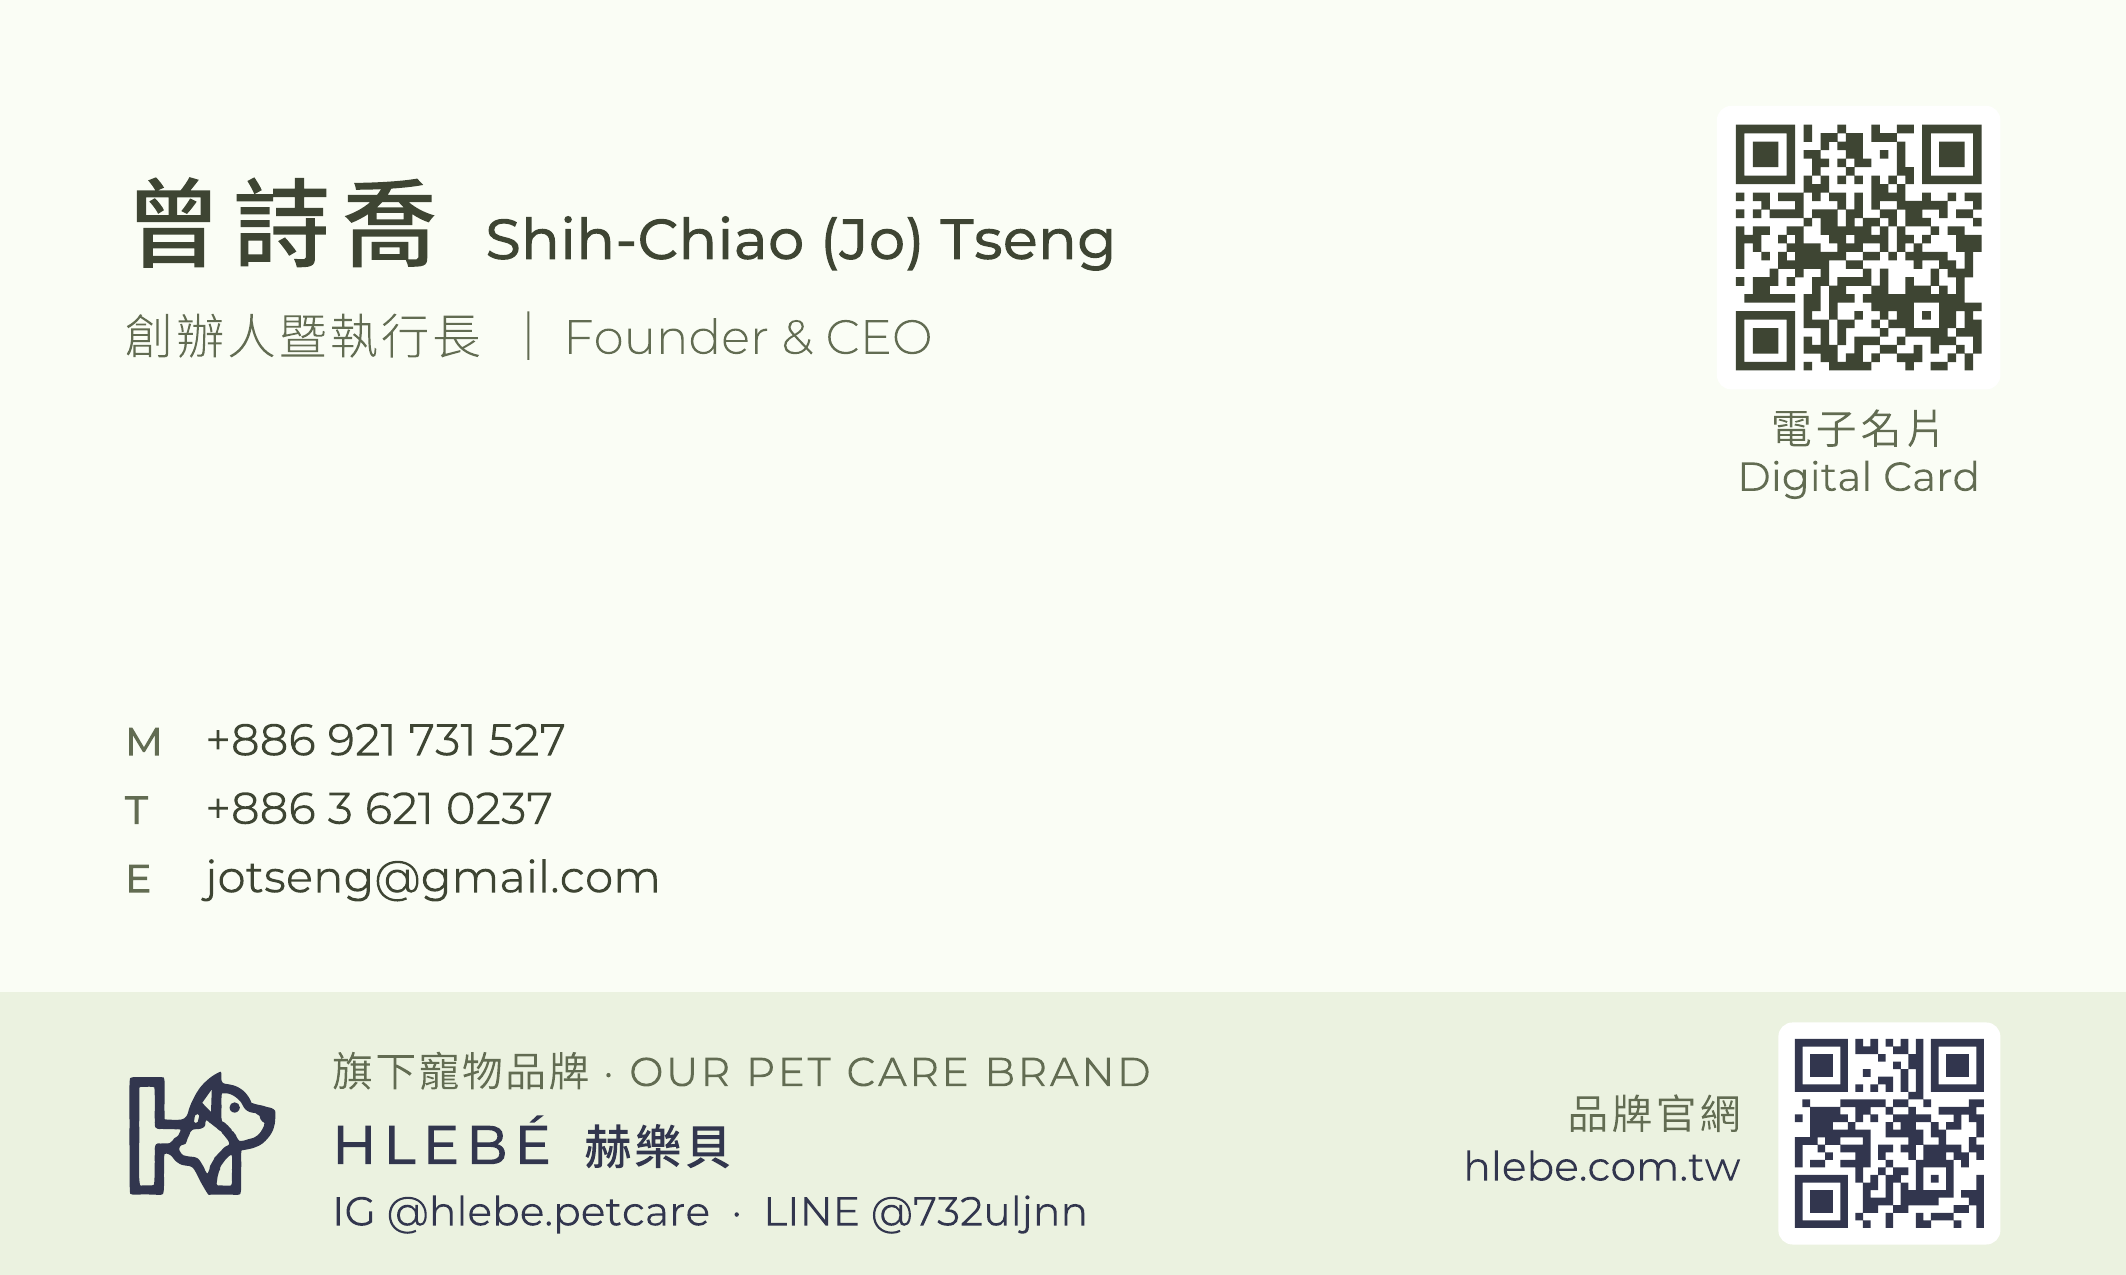
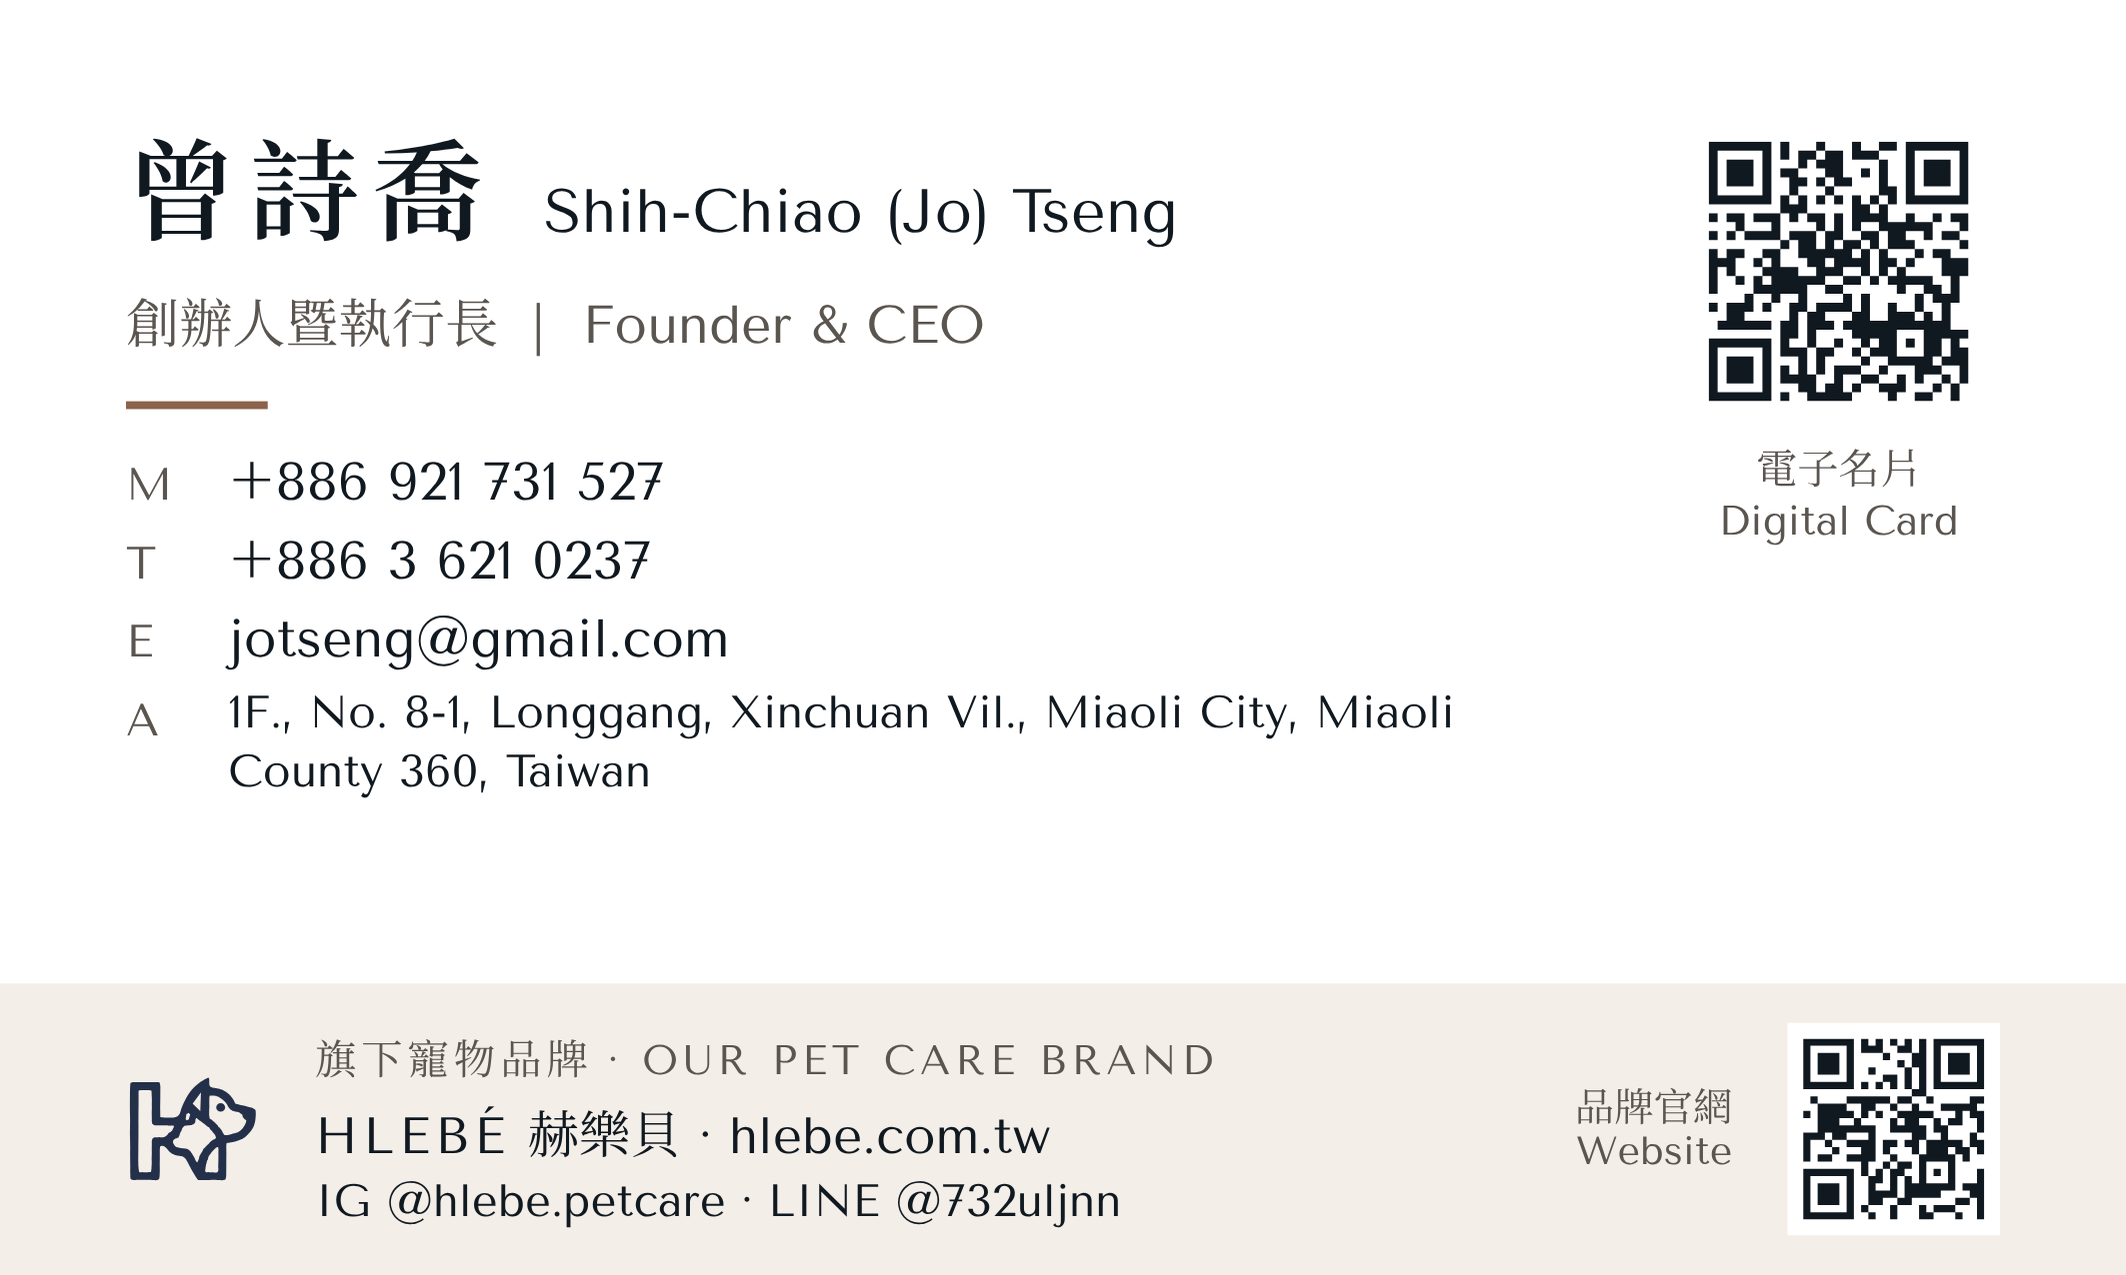
Update card page to finalized E6-P design
- New card-front.png / card-back.png (2126x1275) with the ring-S keyhole logo,
  Pantone 876 C bronze / Black 4 C / Black 6 C palette, serif + Optima type
- Back keeps both QR codes (digital card, hlebe.com.tw) and adds the address
- Page palette and fonts match the digital card; alt text updated

Claude-Session: https://claude.ai/code/session_01Aj6ffXtGTv1ersfohxGVbJ

diff --git a/index.html b/index.html
@@ -5,28 +5,35 @@
 <meta name="viewport" content="width=device-width, initial-scale=1, viewport-fit=cover">
 <title>曾詩喬 名片｜弘林環境生技</title>
 <meta name="description" content="弘林環境生技股份有限公司 曾詩喬 Shih-Chiao (Jo) Tseng 名片正反面。">
-<meta name="theme-color" content="#D5DCCC">
+<meta name="theme-color" content="#FFFFFF">
 <link rel="preconnect" href="https://fonts.googleapis.com">
 <link rel="preconnect" href="https://fonts.gstatic.com" crossorigin>
-<link rel="stylesheet" href="https://fonts.googleapis.com/css2?family=Noto+Sans+TC:wght@400;500;700&family=Montserrat:wght@400;500&display=swap">
+<link rel="stylesheet" href="https://fonts.googleapis.com/css2?family=Noto+Serif+TC:wght@400;500;600&family=Tenor+Sans&display=swap">
 <style>
-  :root { --ground:#D5DCCC; --tint:#E9EDE3; --paper:#F8F9F5; --ink:#2E3B2A; --muted:#535E4D; }
+  :root { --ground:#FFFFFF; --tint:#F3EEE8; --paper:#F7F4F0; --ink:#101820; --ring:#31261D; --bronze:#8B634B; --muted:#5B5550;
+          --serif:'Noto Serif TC','Source Han Serif TC','Noto Serif CJK TC',serif; --optima:Optima,'Optima nova','Tenor Sans',sans-serif; }
   *, *::before, *::after { box-sizing: border-box; margin: 0; padding: 0; }
-  body { font-family: 'Noto Sans TC', 'Montserrat', system-ui, sans-serif; background: var(--paper); color: var(--ink);
+  body { font-family: var(--optima), var(--serif); background: var(--paper); color: var(--ink);
          min-height: 100vh; display: flex; justify-content: center; padding: 32px 16px calc(32px + env(safe-area-inset-bottom)); }
-  .en { font-family: 'Montserrat', 'Noto Sans TC', sans-serif; }
+  .en { font-family: var(--optima); }
   main { width: 100%; max-width: 720px; display: flex; flex-direction: column; gap: 24px; }
-  header h1 { font-size: 22px; font-weight: 700; letter-spacing: .08em; }
+  header h1 { font-size: 22px; font-weight: 600; letter-spacing: .08em; }
+  header h1::after { content: ""; display: block; width: 32px; height: 2px; background: var(--bronze); margin-top: 10px; }
   header p { font-size: 13px; color: var(--muted); margin-top: 4px; }
   figure { display: flex; flex-direction: column; gap: 8px; }
   figcaption { font-size: 12px; color: var(--muted); letter-spacing: .12em; }
-  figure img { width: 100%; height: auto; display: block; border-radius: 4px; box-shadow: 0 12px 30px rgba(46,59,42,.14); }
+  figure img { width: 100%; height: auto; display: block; border-radius: 4px; box-shadow: 0 12px 30px rgba(49,38,29,.14); }
   .actions { display: grid; grid-template-columns: repeat(2, minmax(0, 1fr)); gap: 12px; }
   .btn { display: flex; align-items: center; justify-content: center; gap: 8px; min-height: 52px; padding: 8px 12px;
-         border-radius: 14px; text-decoration: none; font-size: 15px; font-weight: 700; text-align: center; }
-  .btn.primary { background: var(--ink); color: #fff; }
+         border-radius: 14px; text-decoration: none; font-size: 15px; font-weight: 600; text-align: center; }
+  .btn.primary { background: var(--ring); color: #fff; }
   .btn.ghost { background: var(--tint); color: var(--ink); }
+  .btn.ghost svg { color: var(--bronze); }
   .btn svg { width: 18px; height: 18px; flex-shrink: 0; }
+  .btn { white-space: nowrap; font-size: 14px; gap: 6px; }
+  .btn .en { font-size: 13px; }
+  header h1 .en { font-size: 18px; letter-spacing: .02em; }
+  header p .en { white-space: nowrap; }
   @media (max-width: 380px) { .actions { grid-template-columns: minmax(0, 1fr); } }
   footer { font-size: 11px; color: var(--muted); text-align: center; }
 </style>
@@ -34,27 +41,27 @@
 <body>
 <main>
   <header>
-    <h1>曾詩喬 <span class="en" style="font-weight:500">Shih-Chiao (Jo) Tseng</span></h1>
+    <h1>曾詩喬 <span class="en" style="font-weight:400">Shih-Chiao (Jo) Tseng</span></h1>
     <p>弘林環境生技股份有限公司 創辦人暨執行長 <span class="en">· Founder &amp; CEO</span></p>
   </header>
 
   <figure>
     <figcaption>正面 <span class="en">FRONT</span></figcaption>
-    <img src="card-front.png" width="2126" height="1275" alt="名片正面：弘林環境生技股份有限公司 水滴波紋 logo，Honglin Environmental Biotech Co., Ltd.">
+    <img src="card-front.png" width="2126" height="1275" alt="名片正面：弘林環境生技股份有限公司 圓環 S 鑰匙孔 logo，Honglin Environmental Biotech Co., Ltd.">
   </figure>
 
   <figure>
     <figcaption>背面 <span class="en">BACK</span></figcaption>
-    <img src="card-back.png" width="2126" height="1275" alt="名片背面：曾詩喬 Shih-Chiao (Jo) Tseng，創辦人暨執行長 Founder & CEO，手機 +886 921 731 527，電話 +886 3 621 0237，jotseng@gmail.com，旗下寵物品牌 HLEBÉ 赫樂貝與官網 QR Code">
+    <img src="card-back.png" width="2126" height="1275" alt="名片背面：曾詩喬 Shih-Chiao (Jo) Tseng，創辦人暨執行長 Founder & CEO，手機 +886 921 731 527，電話 +886 3 621 0237，jotseng@gmail.com，地址 苗栗縣苗栗市新川里龍岡 8-1 號 1 樓，電子名片 QR Code，旗下寵物品牌 HLEBÉ 赫樂貝與官網 QR Code">
   </figure>
 
   <div class="actions">
     <a class="btn primary" href="https://jotseng0714.github.io/hlebe-card/jo-tseng.vcf" download="Shih-Chiao_Jo_Tseng.vcf">
       <svg viewBox="0 0 24 24" fill="none" stroke="currentColor" stroke-width="2" stroke-linecap="round" stroke-linejoin="round" aria-hidden="true"><path d="M16 21v-2a4 4 0 0 0-4-4H6a4 4 0 0 0-4 4v2"/><circle cx="9" cy="7" r="4"/><line x1="19" y1="8" x2="19" y2="14"/><line x1="22" y1="11" x2="16" y2="11"/></svg>
-      儲存聯絡人 <span class="en" style="font-weight:500">Save</span></a>
+      儲存聯絡人 <span class="en" style="font-weight:400">Save</span></a>
     <a class="btn ghost" href="https://jotseng0714.github.io/hlebe-card/">
       <svg viewBox="0 0 24 24" fill="none" stroke="currentColor" stroke-width="2" stroke-linecap="round" stroke-linejoin="round" aria-hidden="true"><rect x="6" y="2" width="12" height="20" rx="2"/><line x1="11" y1="18" x2="13" y2="18"/></svg>
-      電子名片 <span class="en" style="font-weight:500">Digital Card</span></a>
+      電子名片 <span class="en" style="font-weight:400">Digital Card</span></a>
   </div>
 
   <footer class="en">© Honglin Environmental Biotech Co., Ltd.</footer>
